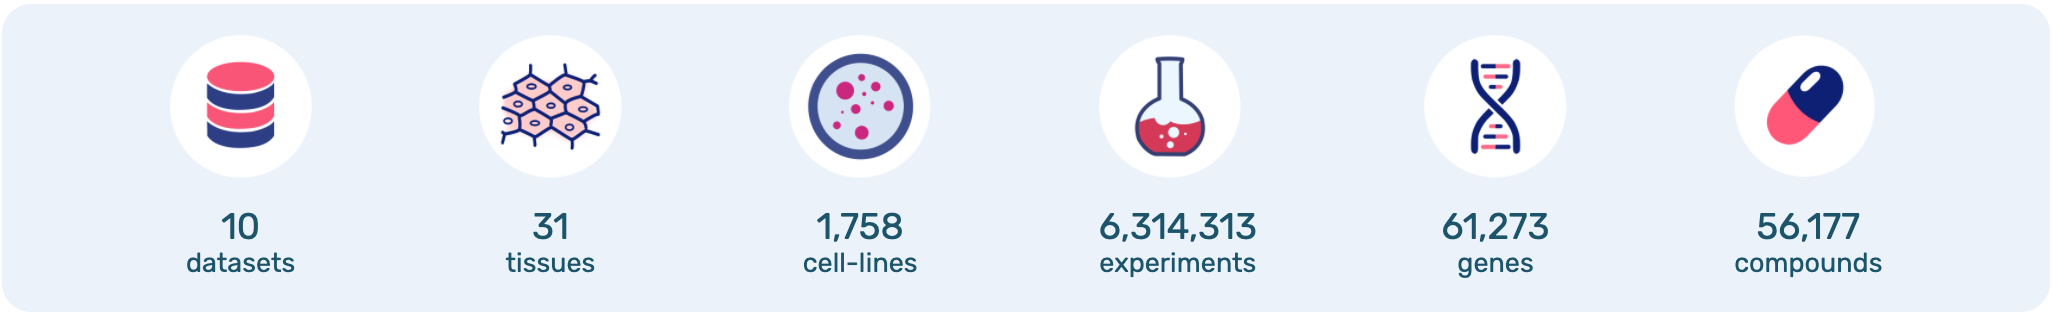
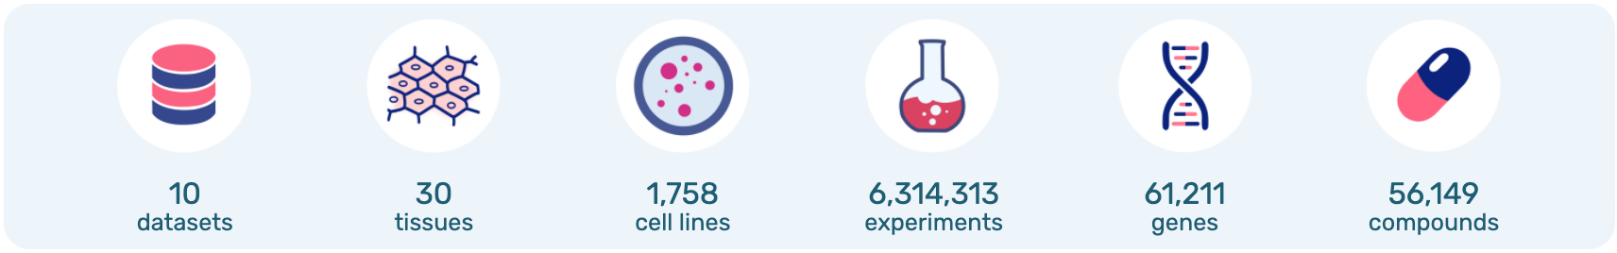
Fixed a typo and updated remaining cells and drugs with alternatives

diff --git a/client/src/Components/About/Documentation/Documentations/DocSearch.js b/client/src/Components/About/Documentation/Documentations/DocSearch.js
@@ -19,18 +19,18 @@ const DocSearch = () => {
     return(
         <div className='documentation'>
             <p>The main way to interact with PharmacoDB is through its Search interface. The search bar, found on the homepage of the website, allows the user to query all the data contained in the database, and functions as the main navigation tool around the web app.</p>
-            <p>The Search bar takes several distinct types of queries. The simplest is to query for a single specific entity in the database. One can use the search to query for a specific cell (e.g. MCF-7), compound (e.g. 17-AAG), tissue (e.g. breast) or dataset (e.g. CTRPv2). This query would then take you to the corresponding page for that instance. It is feasible to search for the synonyms of a compound name or cell names as long as they are included in one of the PharmacoDB datasets.</p>
-            <p>The search bar also allows the user to specify a data type (e.g. cell, compound, dataset), where it would take the user to a page listing all instances of that data type in the database.</p>
+            <p>The search bar takes several distinct types of queries. The simplest is to query for a single specific entity in the database. One can use the search to query for a specific cell line (e.g. MCF-7), compound (e.g. 17-AAG), tissue (e.g. breast) or dataset (e.g. CTRPv2). This query would then take you to the corresponding page for that instance. It is feasible to search for the synonyms of a compound name or cell line names as long as they are included in one of the PharmacoDB datasets.</p>
+            <p>The search bar also allows the user to specify a data type (e.g. cell line, compound, dataset), where it would take the user to a page listing all instances of that data type in the database.</p>
             {/*<img width="650px" alt="Searching cell line data" src={logo} title="Searching cell"/>*/}
-            <p>Queries consisting of the names of multiple datasets, with a space between dataset names, are also allowed. This query will link the user to a page describing the intersection between the datasets, with tables listing the common cells, compounds and tissue types.</p>
-            <div className="center"><img src={intersectionSearch}/></div>
+            <p>Queries consisting of the names of multiple datasets, with a space between dataset names, are also allowed. This query will link the user to a page describing the intersection between the datasets, with tables listing the common cell lines, compounds and tissue types.</p>
+            <div className="center"><img className="bar" src={intersectionSearch}/></div>
             <p>Queries consisting of combinations of the name of a compound with cell line or tissue, delimited by a space, will direct to a page plotting all the available compound dose response curves for that combination across all datasets in PharmacoDB.</p>
-            <h6>Cell line vs. Compound/ Compound vs. Cell line</h6>
-            <div className="center"><img src={cellDrugSearch}/></div>
-            <h6>Compound vs. Tissue/ Tissue vs. Compoundg</h6>
-            <div className="center"><img src={drugTissueSearch}/></div>
+            <h6>cell line vs. compound/ compound vs. cell line</h6>
+            <div className="center"><img className="bar" src={cellDrugSearch}/></div>
+            <h6>compound vs. tissue/ tissue vs. compound</h6>
+            <div className="center"><img className="bar" src={drugTissueSearch}/></div>
             <p>Another main way of interacting with PharmacoDB is by clicking on the data types provided at the bottom of the homepage. Data types are also accessible through the Data drop down menu on the top right side of the homepage.</p>
-            <div className="center"><img src={homeNav}/></div>
+            <div className="center"><img className="bar" src={homeNav}/></div>
         </div>
     );
 }

diff --git a/client/src/Components/About/Documentation/Documentations/DocTissue.js b/client/src/Components/About/Documentation/Documentations/DocTissue.js
@@ -1,6 +1,6 @@
 import React from 'react';
 import tissueSearch from '../../../../images/DocumentationImages/tissueSearch.png';
-import homeTissue from '../../../../images/DocumentationImages/homeTissue.PNG';
+import homeTissue from '../../../../images/DocumentationImages/homeTissues.png';
 import pieChart from '../../../../images/DocumentationImages/pieChart.png';
 import tissueList from '../../../../images/DocumentationImages/tissueList.png';
 import tissueAnnotation from '../../../../images/DocumentationImages/bone_annot.png';
@@ -22,14 +22,14 @@ const DocTissue = () => {
     return(
         <div className='documentation'>
             <p>Each tissue type included in PharmacoDB has a webpage associated with it. These pages can be accessed by searching for a tissue through the search bar, or by clicking on the tissues link at the bottom of the homepage or from the Data drop down menu on the top right side of the homepage.</p>
-            <div className="center"><img src={tissueSearch}/></div>
+            <div className="center"><img className="bar" src={tissueSearch}/></div>
             <div className="center"><p>Or</p></div>
-            <div className="center"><img src={homeTissue}/></div>
+            <div className="center"><img className="bar" src={homeTissue}/></div>
             <p>Tissues link takes you to a page starting with a pie chart representing the relative percentage of cell lines per tissue in PharmacoDB. Hovering over each color on the pie chart shows the name of the tissue associated with that color.</p>
             <div className="center"><img src={pieChart}/></div>
             <p>The page also includes a table that lists the names of all the tissues included in PharmacoDB. Clicking on each tissue name takes you to the webpage associated with that tissue.</p>
             <div className="center"><img src={tissueList}/></div>
-            <p>Each tissue page has a sidebar including Annotations, Bar Plot, Cell Line Summary, and Compound Summary.</p>
+            <p>Each tissue page has a sidebar including Annotations, Bar Plot, Cell Lines Summary, and Compounds Summary.</p>
             <h7>Annotations</h7>
             <p>Annotations page displays information about the datasets which performed experiments on the query tissue type, with synonyms for that tissue within each dataset. For demonstration, the tissue “Bone” is selected here.</p>
             <div className="center"><img className="small" src={tissueAnnotation}/></div>
@@ -37,7 +37,7 @@ const DocTissue = () => {
             <p>Bar Plots page includes plots comparing the number of cell lines and compounds tested on cell lines of the tissue type in each PharmacoDB dataset.</p>
             <div className="center"><img className="small" src={tissueBar}/></div>
             <h7>Cell Lines Summary</h7>
-            <p>Cell Lines Summary page includes a table of cell lines of the tissue type included in PharmacoDB. Clicking on each cell name takes you to a page corresponding to that cell line. You can also use the search bar above the table to search for the cell line for interest.</p>
+            <p>Cell Lines Summary page includes a table of cell lines of the tissue type included in PharmacoDB. Clicking on each cell line name takes you to a page corresponding to that cell line. You can also use the search bar above the table to search for the cell line of interest.</p>
             <div className="center"><img className="small" src={tissueCellList}/></div>
             <h7>Compounds Summary</h7>
             <p>Compounds Summary page includes a table of compounds tested on the tissue type, with the studies in which the compound - tissue combination can be found and the total number of experiments across all datasets. Clicking on each compound name or dataset name will take you to the corresponding page to that instance.</p>

diff --git a/client/src/Components/About/Documentation/Documentations/DocCell.js b/client/src/Components/About/Documentation/Documentations/DocCell.js
@@ -1,6 +1,6 @@
 import React from 'react';
 import cellSearch from '../../../../images/DocumentationImages/cellSearch.png';
-import homeCell from '../../../../images/DocumentationImages/homeCell.PNG';
+import homeCell from '../../../../images/DocumentationImages/homeCellLines.png';
 import pieChart from '../../../../images/DocumentationImages/pieChart.png';
 import cellSummaryList from '../../../../images/DocumentationImages/cellSummaryList.png';
 import cellIndBar from '../../../../images/DocumentationImages/cellIndBar.png';
@@ -22,17 +22,17 @@ import cellMolProf from '../../../../images/DocumentationImages/cellline_hela_mo
 const DocCell = () => {
     return(
         <div className='documentation'>
-            <p>Each cell line included in PharmacoDB has a cell line page associated with it. These pages can be accessed by searching for a cell line through the search bar, by clicking on the cell- lines link at the bottom of the homepage or from the Data drop down menu on the top right side of the homepage.</p>
-            <div className="center"><img src={cellSearch}/></div>
+            <p>Each cell line included in PharmacoDB has a cell line page associated with it. These pages can be accessed by searching for a cell line through the search bar, by clicking on the cell lines link at the bottom of the homepage or from the Data drop down menu on the top right side of the homepage.</p>
+            <div className="center"><img className="bar" src={cellSearch}/></div>
             <div className="center"><p>Or</p></div>
-            <div className="center"><img src={homeCell}/></div>
+            <div className="center"><img className="bar" src={homeCell}/></div>
             <p>Cell lines link directs you to a page starting with a pie chart representing the relative percentage of cell lines per tissue in PharmacoDB. Hovering over each color on the pie chart shows the name of the tissue associated with that color.</p>
             <div className="center"><img src={pieChart}/></div>
             <p>The page also includes a table that lists the names of all the cell lines included in PharmacoDB. Clicking on each cell line name takes you to the webpage associated with that cell line. Cell lines can also be searched using the search bar above the table.</p>
             <div className="center"><img src={cellSummaryList}/></div>
-            <p>Each cell line page has a sidebar including Cell Line data, Bar Plot, AAC (Compounds), Compounds Summary, and Molecular Profiling.</p>
+            <p>Each cell line page has a sidebar including Annotations, Bar Plot, AAC (Compounds), Compounds Summary, and Molecular Profiling.</p>
             <h7>Annotations</h7>
-            <p>Annotations page displays information about the synonyms in each dataset that used the cell line of query, the diseases it was used to model, and its Cellosaurus name. Clicking on a dataset name, disease name or Cellosaurus link will direct you to the corresponding page for that instance.</p>
+            <p>Annotations page displays information about the synonyms in each dataset that used the cell line of the query, the diseases it was used to model, and its cellosaurus name. Clicking on a dataset name, disease name or cellosaurus link will direct you to the corresponding page for that instance.</p>
             <div className="center"><img className="small" src={cellInd}/></div>
             <h7>Bar Plot</h7>
             <p>Bar Plot page shows a plot comparing the total number of compounds tested on the cell line in each PharmacoDB dataset. Hovering over each bar shows the exact number of compounds.</p>

diff --git a/client/src/Components/About/AboutUs/AboutUsDescription.js b/client/src/Components/About/AboutUs/AboutUsDescription.js
@@ -95,8 +95,8 @@ const AboutUsDescription = () => {
           for the drug sensitivity measurements.</p>
           <p>To address these issues, we developed PharmacoDB, a web-application assembling the largest in vitro drug screens
           in a single database, and allowing users to easily query the union of studies released to date. PharmacoDB
-          allows scientists to search across publicly available datasets to find instances where a drug or cell line of
-          interest has been profiled, and to view and compare the dose-response data for a specific cell line - drug pair
+          allows scientists to search across publicly available datasets to find instances where a compound or cell line of
+          interest has been profiled, and to view and compare the dose-response data for a specific cell line - compound pair
           from any of the studies included in the database.</p>
           <p>If you use PharmacoDB in your research please cite the following publication:<br/>
           <ul>
@@ -131,23 +131,23 @@ const AboutUsDescription = () => {
                 : null
             }
           </div>
-          <div className="paragraph">Drugs? Try typing <a id="hide-d-overlay"href="javaScript:void(0);" onClick={() =>onClick("drug")}>Paclitaxel</a>
+          <div className="paragraph">Compounds? Try typing <a id="hide-d-overlay"href="javaScript:void(0);" onClick={() =>onClick("drug")}>Paclitaxel</a>
             {
               showDrug ?
                     <div className="caption" id=" overlay-caption">
                       <img  height="auto" width="520px" alt="Searching Paclitaxel" className="documentation" src={drugExmp} title="Query drug"/><br/>
-                      Example search for a drug.
+                      Example search for a compound.
                     </div>
                   : null
             }
           </div>
-          <div className="paragraph">Drug dose-response curves? Try typing <a id="hide-ddrc-overlay" href="javaScript:void(0);" onClick={() =>onClick("ddrc")}>MCF-7 Paclitaxel</a>
+          <div className="paragraph">Compound dose-response curves? Try typing <a id="hide-ddrc-overlay" href="javaScript:void(0);" onClick={() =>onClick("ddrc")}>MCF-7 Paclitaxel</a>
             {
               showDDRC ?
 
                     <div className="caption" id=" overlay-caption">
                       <img  height="auto" width="550px" alt="Searching MCF-7 Paclitaxel" className="documentation" src={cellDrugExmp} title="Query dose-response curve"/><br/>
-                      Example search for a drug dose-response curve. </div>
+                      Example search for a compound dose-response curve. </div>
                   : null
             }
           </div>
@@ -161,7 +161,7 @@ const AboutUsDescription = () => {
           The <a href="https://www.pmgenomics.ca/bhklab/" target="_blank">BHKLAB </a>
           is composed of a multidisciplinary team of researchers analyzing high-dimensional molecular and imaging data to
           develop new predictive tools foranticancer therapies. We develop databases and analysis pipelines to leverage
-          large compendia of pharmacogenomic datasets for biomarker discovery and drug repurposing. The BHKLAB is part of
+          large compendia of pharmacogenomic datasets for biomarker discovery and compound repurposing. The BHKLAB is part of
           the Princess Margaret Cancer Centre – University Health Network, located in the heart of the Toronto Discovery
           District in Ontario, Canada. <br/>
           <iframe

diff --git a/client/src/Components/About/Documentation/Documentations/DocDataset.js b/client/src/Components/About/Documentation/Documentations/DocDataset.js
@@ -1,6 +1,6 @@
 import React from 'react';
 import datasetSearch from '../../../../images/DocumentationImages/datasetSearch.png';
-import homeDataset from '../../../../images/DocumentationImages/homeDataset.PNG';
+import homeDataset from '../../../../images/DocumentationImages/homeDatasets.png';
 import upsetPlot from '../../../../images/DocumentationImages/datasetUpsetPlot.png';
 import datasetList from '../../../../images/DocumentationImages/datasetList.png';
 import individualDataset from '../../../../images/DocumentationImages/datasetInd.png';
@@ -25,14 +25,14 @@ const DocDataset = () => {
     return(
         <div className='documentation'>
             <p>Each study included in PharmacoDB has a dataset page associated with it. These pages can be accessed by searching for a study through the search bar, or from the datasets page accessible through clicking on the datasets link at the bottom of the homepage or from the Data drop down menu on the top right side of the homepage.</p>
-            <div className="center"><img src={datasetSearch}/></div>
+            <div className="center"><img className="bar" src={datasetSearch}/></div>
             <div className="center"><p>Or</p></div>
-            <div className="center"><img src={homeDataset}/></div>
+            <div className="center"><img className="bar" src={homeDataset}/></div>
             <p>Datasets link on the front page directs you to a page starting with a bar graph showing the number of cell lines per dataset as well as the number of common cell lines between any given datasets. Using the selector you can choose to view this information for tissues or compounds across datasets.</p>
             <div className="center"><img src={upsetPlot}/></div>
             <p>Datasets page concludes with a table listing all the available datasets in PharmacoDB. Clicking on each dataset name takes you to the webpage corresponding to that dataset.</p>
             <div className="center"><img src={datasetList}/></div>
-            <p>Each dataset page has a sidebar including Dataset Information, Resources, Data types, Bar Plots, Summary Cell Lines, and Summary Compounds.</p>
+            <p>Each dataset page has a sidebar including Dataset Information, Resources, Data types, Bar Plots, Cell Lines Summary, and Compounds Summary.</p>
             <h7>Dataset Information</h7>
             <p>Dataset Information page displays information about the study which collected the pharmacological data, the publications associated with the dataset, the name of the PharmacoSet object from the PharmacoGX R package associated with the data, and the link to the dataset on ORCESTRA.</p>
             <h6>Example: CCLE dataset</h6>

diff --git a/client/src/Components/About/Documentation/Documentations/DocDrug.js b/client/src/Components/About/Documentation/Documentations/DocDrug.js
@@ -1,5 +1,5 @@
 import React from 'react';
-import homeCompound from '../../../../images/DocumentationImages/homeCompound.PNG';
+import homeCompound from '../../../../images/DocumentationImages/homeCompounds.png';
 import drugSummaryBar from '../../../../images/DocumentationImages/drugSummaryBar.png';
 import drugIndBar from '../../../../images/DocumentationImages/drugIndivBar.png';
 import drugAACCell from '../../../../images/DocumentationImages/pacli_aac_celllines.png';
@@ -24,12 +24,12 @@ const DocDrug = () => {
     return(
         <div className='documentation'>
             <p>Each compound included in PharmacoDB has a webpage page associated with it. These pages can be accessed by searching for a compound through the search bar, or by clicking on the compounds link at the bottom of the homepage or from the Data drop down menu on the top right side of the homepage.</p>
-            <div className="center"><img src={drugSearch}/></div>
+            <div className="center"><img className="bar" src={drugSearch}/></div>
             <div className="center"><p>Or</p></div>
-            <div className="center"><img src={homeCompound}/></div>
+            <div className="center"><img className="bar" src={homeCompound}/></div>
             <p>Compounds link directs you to a page starting with a bar plot showing the number of compounds tested in each dataset included in PharmacoDB. Hovering over each bar shows the exact number of compounds.</p>
             <div className="center"><img src={drugSummaryBar}/></div>
-            <p>The page also contains a table showing the name, SMILES, InChIKeys, PubChem name, and ChEMBL and FDA status of all the compounds included in the PharmacoDB. Clicking on each compound name will take you to the corresponding compound page.</p>
+            <p>The page also contains a table showing the name, SMILES, InChIKeys, PubChem name, ChEMBL, and FDA status of all the compounds included in the PharmacoDB. Clicking on each compound name will take you to the corresponding compound page.</p>
             {/*<img width="600px" alt="compound summary page- list of compounds" src={doseImg} title="Compounds"/>*/}
             <p>Each compound page has a sidebar including Synonyms and IDS, Annotated Targets, Bar Plots, AAC (Cell Lines), AAC (Tissues), Cell Line Summary, Tissue Summary, and Molecular Features.</p>
             <h7>Annotations</h7>

diff --git a/client/src/Components/About/Documentation/Documentations/DocBiomarker.js b/client/src/Components/About/Documentation/Documentations/DocBiomarker.js
@@ -20,8 +20,8 @@ const DocBiomarker = () => {
     return(
         <div className='documentation'>
             <p>Biomarker query is feasible through searching for a combination of a compound, gene and tissue from the search bar. Through this query you can view the association of a marker (gene) of interest with the compound pan cancer as well as in a specific tissue. If the tissue is not specified the query will be pan-cancer.</p>
-            <div className="center"><img src={geneCompoundSearch}/></div>
-            <div className="center"><img src={geneCompounTissueSearch}/></div>
+            <div className="center"><img className="bar" src={geneCompoundSearch}/></div>
+            <div className="center"><img className="bar" src={geneCompounTissueSearch}/></div>
             <p>Biomarker query directs you to the corresponding page with a sidebar including Forest Plot, Manhattan Plot, Gene Information, and Compound Information.</p>
             <p>Forest plot page includes a forest plot indicating the association between the compound and gene of the query in the tissue type of interest in each PharmacoDB dataset that includes them.  There is a molecular profile selector allowing to review the association according to the chosen profile. The significant associations (FDR &lt; 0.05 and pearson correlation coefficient, r &gt; 0.7) are highlighted in pink. You can view the strength of the association as well as the correlation confidence intervals by hovering over the horizontal lines.</p>
             <div className="center"><img src={biomarkerForest}/></div>

diff --git a/client/src/Components/About/Documentation/Documentations/DocGene.js b/client/src/Components/About/Documentation/Documentations/DocGene.js
@@ -1,5 +1,5 @@
 import React from 'react';
-import homeGene from '../../../../images/DocumentationImages/homeGene.PNG';
+import homeGene from '../../../../images/DocumentationImages/homeGenes.png';
 import geneSummaryBar from '../../../../images/DocumentationImages/genes_targets.png';
 import geneSummaryPlot from '../../../../images/DocumentationImages/geneSummaryPlot.png';
 import geneSummaryList from '../../../../images/DocumentationImages/geneSummaryList.png'
@@ -18,7 +18,7 @@ const DocGene = () => {
     return(
         <div className='documentation'>
             <p>Genes webpage is accessible from the experiments link at the bottom of the homepage or from the Data drop down menu on the top right side of the homepage.</p>
-            <div className="center"><img src={homeGene}/></div>
+            <div className="center"><img className="bar" src={homeGene}/></div>
             <p>Genes webpage starts with a bar plot displaying the frequency of unique gene targets per compound. Hovering over each bar shows the exact frequency.</p>
             <div className="center"><img src={geneSummaryBar}/></div>
             <p>The webpage concludes with a table listing the names and symbols of all the genes reported in any of the PharmacoDB datasets. The genes can be accessed either by clicking on their names, or by searching through the search bar above the table.</p>

diff --git a/client/src/Components/About/Documentation/Documentations/DocTissueVsDrug.js b/client/src/Components/About/Documentation/Documentations/DocTissueVsDrug.js
@@ -16,7 +16,7 @@ const DocTissueVsDrug = () => {
     return(
         <div className='documentation'>
             <p>Each tissue-compound combination included in PharmacoDB has a webpage associated with it. This page can be accessed by typing the names of the tissue and compound into the search bar, separated by a space. The order of tissue and compound names do not matter.</p>
-            <div className="center"><img src={tissueDrug}/></div>
+            <div className="center"><img className="bar" src={tissueDrug}/></div>
             <p>The page starts with a plot recording the doses of the compound of query tested on the tissue of query in each dataset, along with the cell viability values that were observed at those doses. The curves can be filtered by datasets and highlighted by cell lines using the selection squares on the right side of the plot. Clicking on each curve highlights all the curves associated with the cell line pertaining to that curve.</p>
             <div className="center"><img src={tissueDrugPlot}/></div>
             <p>The page concludes with a table reporting the cell line names, datasets including each cell line, and statistics such as AAC, IC50, EC50 and Einf. Clicking on each name or value in the table directs you to the corresponding page.</p>

diff --git a/client/src/Components/About/Documentation/Documentations/DocCellVsDrug.js b/client/src/Components/About/Documentation/Documentations/DocCellVsDrug.js
@@ -17,7 +17,7 @@ const DocCellVsDrug = () => {
     return(
         <div className='documentation'>
             <p>Each cell line-compound combination included in PharmacoDB has a webpage associated with it. This page can be accessed by typing the names of the cell line and compound into the search bar, separated by a space. The order of cell line and compound names do not matter.</p>
-            <div className="center"><img src={cellDrug}/></div>
+            <div className="center"><img className="bar" src={cellDrug}/></div>
             <p>The page starts with a plot recording the doses at which the compound of query tested on the cell line of query in each dataset, along with the cell viability values that were observed at those doses. Each replicate from each dataset of the experiment is plotted separately. Hovering over each point on the plot shows the name of the associated dataset as well as the dose and viability response measures of the experiment.</p>
             <div className="center"><img src={cellDrugPlot}/></div>
             <p>The page concludes with a table summarising measurements such as AAC, IC50, EC50 and Einf where available. Clicking on each dataset name or value directs you to the corresponding page.</p>

diff --git a/client/src/Components/About/Documentation/Documentations/DocExperiment.js b/client/src/Components/About/Documentation/Documentations/DocExperiment.js
@@ -1,5 +1,5 @@
 import React from 'react';
-import homeExperiment from '../../../../images/DocumentationImages/homeExperiment.PNG';
+import homeExperiment from '../../../../images/DocumentationImages/homeExperiments.png';
 import experimentBarsPlot from '../../../../images/DocumentationImages/experimentsBars.png';
 
 /**
@@ -16,7 +16,7 @@ const DocExperiment = () => {
     return(
         <div className='documentation'>
             <p>Experiments webpage is accessible from the experiments link at the bottom of the homepage or from the Data drop down menu on the top right side of the homepage.</p>
-            <div className="center"><img src={homeExperiment}/></div>
+            <div className="center"><img className="bar" src={homeExperiment}/></div>
             <p>The webpage provides bar plots displaying the average number of experiments per cell line or compound in each PharmacoDB dataset.</p>
             <div className="center"><img className="small" src={experimentBarsPlot}/></div>
         </div>

diff --git a/client/src/Components/Home/Stats.js b/client/src/Components/Home/Stats.js
@@ -84,7 +84,7 @@ const statsObject = {
     name: 'tissues', value: '0', image: tissuesImg, link: '/tissues',
   },
   cell: {
-    name: 'cell-lines', value: '0', image: cellsImg, link: '/cell_lines',
+    name: 'cell lines', value: '0', image: cellsImg, link: '/cell_lines',
   },
   experiment: {
     name: 'experiments',
@@ -102,7 +102,7 @@ const statsObject = {
 
 
 /**
- * 
+ *
  * @param {Array} data - input array.
  */
 const createStatsObject = (data) => {
@@ -116,8 +116,8 @@ const createStatsObject = (data) => {
 }
 
 /**
- * 
- * @param {Array} data 
+ *
+ * @param {Array} data
  */
 const updateStatsObject = (data) => {
   const stats = statsObject;
